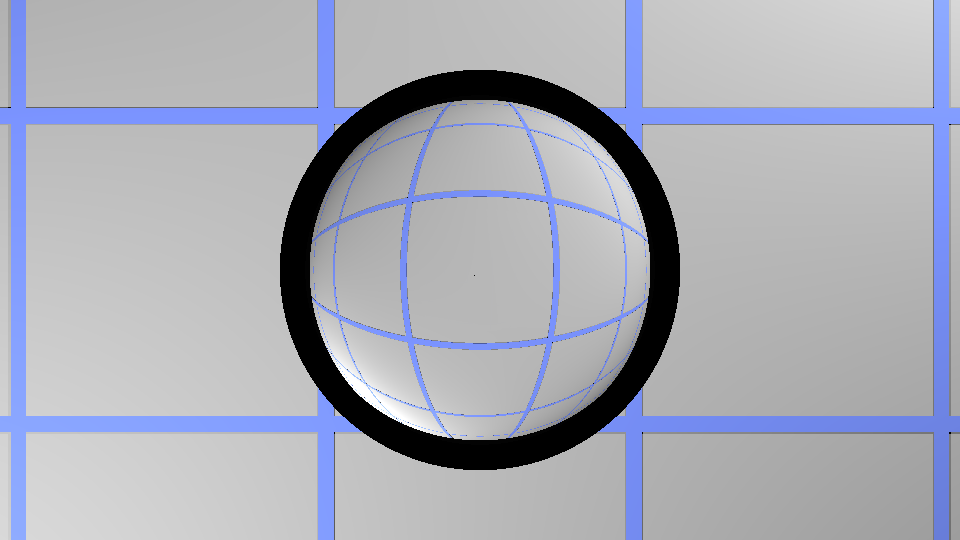
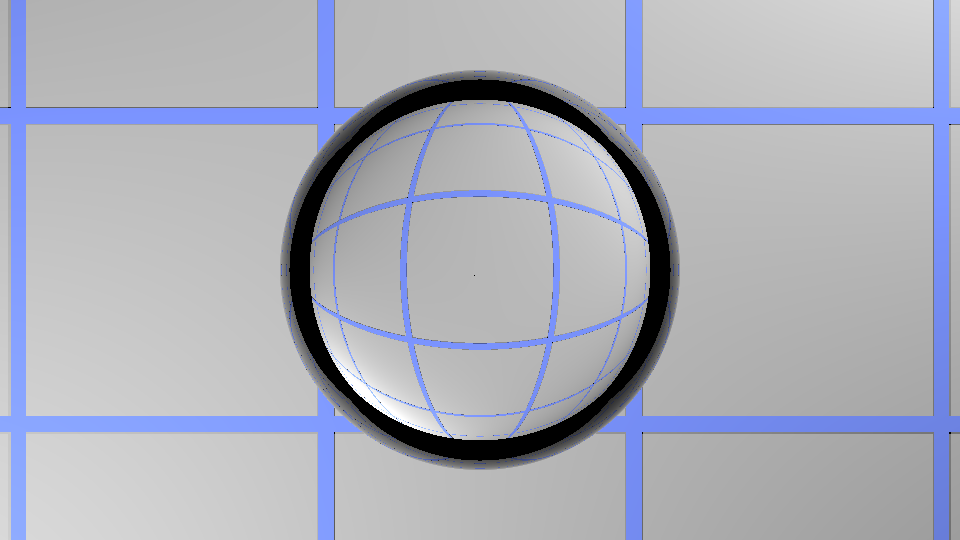
cube map

Changed region(s): [[0.2812, 0.1185, 0.7188, 0.8889]]

diff --git a/CS4620/src/cs4620/ray2/Cubemap.java b/CS4620/src/cs4620/ray2/Cubemap.java
@@ -57,11 +57,51 @@ public class Cubemap {
 	public void evaluate(Vector3d dir, Colord outRadiance) {
 		//TODO#A7 Look up for the radiance of the environment mapping in a given direction
 		//don't forget to multiply the outRadiance by scaleFactor
-		float x = 0,y = 0;
+		int x = 0,y = 0;
 		
+		float abX = (float) Math.abs(dir.x);
+		float abY = (float) Math.abs(dir.y);
+		float abZ = (float) Math.abs(dir.z);
 		
-		
-		outRadiance.x = imageData[(int) (3 * (x + width* y))];
+		if (abX >= abY && abX >= abZ) {
+			float u = 1 - (float) ((dir.y + dir.x)/(dir.x*2));
+			float v = 1 - (float) ((dir.z + dir.x)/(dir.x*2));
+			if (dir.x > 0) {
+				x = (int) (u * width);
+				y = (int) (v * height);
+			}
+			else {
+				x = (int) (u * width);
+				y = (int) (v * height);
+			}
+		}
+		else if (abY >= abX && abY >= abZ) {
+			float u = 1 - (float) ((dir.y + dir.x)/(dir.y*2));
+			float v = 1 - (float) ((dir.z + dir.y)/(dir.y*2));
+			if (dir.y > 0) {
+				x = (int) (u * width);
+				y = (int) (v * height);
+			}
+			else {
+				x = (int) (u * width);
+				y = (int) (v * height);
+			}		
+		}
+		else if (abZ >= abY && abZ >= abX) {
+			float u = 1 - (float) ((dir.z + dir.x)/(dir.z*2));
+			float v = 1 - (float) ((dir.z + dir.y)/(dir.z*2));
+			if (dir.z > 0) {
+				x = (int) (u * width);
+				y = (int) (v * height);
+			}
+			else {
+				x = (int) (u * width);
+				y = (int) (v * height);
+			}
+		}
+		System.out.println(imageData.length);
+		System.out.println(width);
+		outRadiance.x = imageData[(int) (3 *(x + width* y))];
 		outRadiance.y = imageData[(int) (3 * (x + width* y)) + 1];
 		outRadiance.z = imageData[(int) (3 * (x + width* y)) + 2];
 		outRadiance.mul(scaleFactor);
